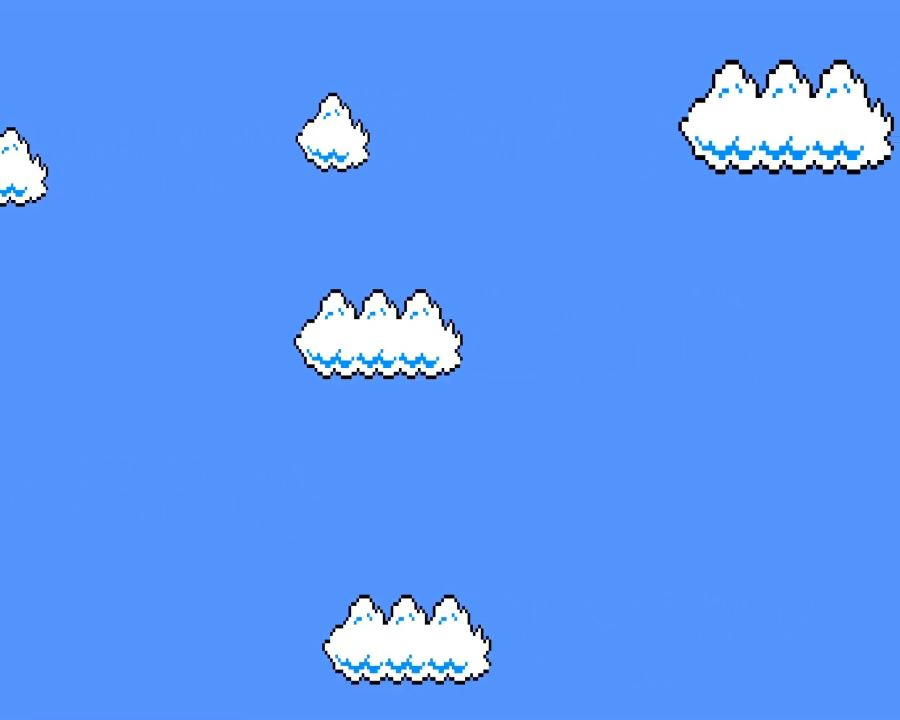
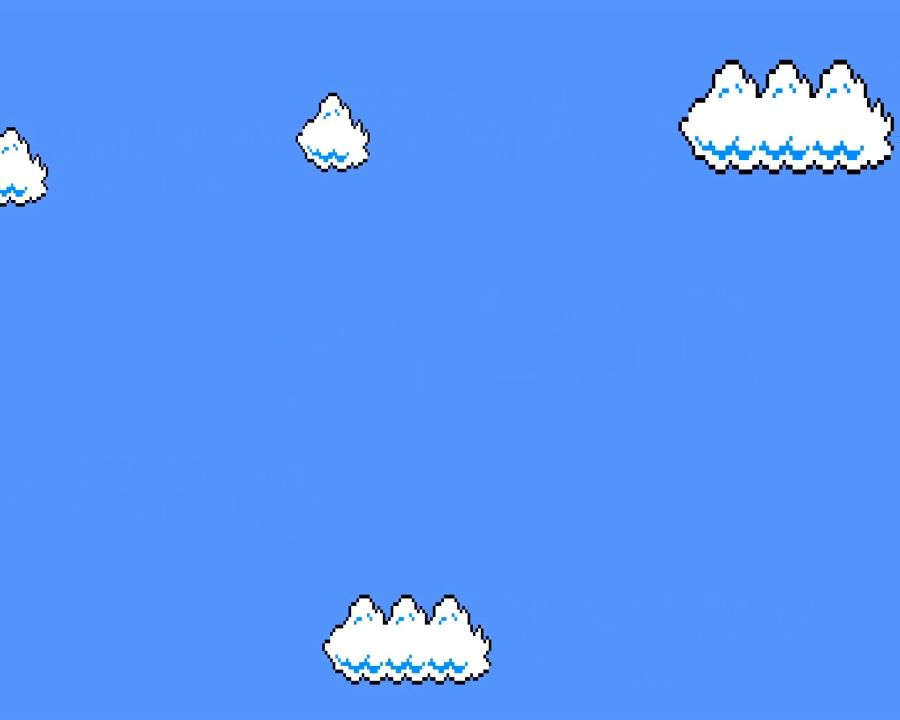
TTT cambios

Changed region(s): [[0.3111, 0.3972, 0.5289, 0.55]]

diff --git a/src/Minijuegos/TTT/TicTacToe.java b/src/Minijuegos/TTT/TicTacToe.java
@@ -6,9 +6,9 @@ import java.awt.event.ActionEvent;
 import java.awt.event.ActionListener;
 
 public class TicTacToe extends JFrame {
-    public ImageIcon logoImage, bgImage;
+    public ImageIcon logoImage, bgImage, tttBase;
     public JPanel buttonContainer;
-    public JLabel bgLabel;
+    public JLabel bgLabel, backgroundGame, gameLogo;
     boolean temp = false;
     JButton[][] TableroGrafico = new JButton[3][3];
     Juego juego = new Juego();
@@ -17,6 +17,8 @@ public class TicTacToe extends JFrame {
         this.setBounds(250,30,900,720);
         this.setPreferredSize(new Dimension(900,720));
         this.setDefaultCloseOperation(WindowConstants.EXIT_ON_CLOSE);
+        this.setUndecorated(true);
+        //this.getRootPane().setWindowDecorationStyle(JRootPane.NONE);
 
         Container container = this.getContentPane();
         container.setLayout(null);
@@ -26,39 +28,74 @@ public class TicTacToe extends JFrame {
         bgLabel.setIcon(bgImage);
         bgLabel.setBackground(Color.blue);
 
+        tttBase = new ImageIcon(getClass().getResource("/Minijuegos/TTT/tttBase.png"));
+
+        logoImage = new ImageIcon(getClass().getResource("/Minijuegos/TTT/gameLogo.png"));
+
         JLabel gameLabel = new JLabel();
-        gameLabel.setText("Game logo");
+        gameLabel.setIcon(logoImage);
 
         buttonContainer = new JPanel();
         buttonContainer.setLayout(null);
         buttonContainer.setOpaque(false);
 
+        backgroundGame = new JLabel();
+        backgroundGame.setIcon(tttBase);
+
+
         JButton btn1 = new JButton();
         btn1.setBackground(new Color(83, 148, 252));
+        btn1.setBorderPainted(false);
+        btn1.setContentAreaFilled(false);
+        btn1.setOpaque(false);
 
         JButton btn2 = new JButton();
         btn2.setBackground(new Color(83, 148, 252));
+        btn2.setBorderPainted(false);
+        btn2.setContentAreaFilled(false);
+        btn2.setOpaque(false);
 
         JButton btn3 = new JButton();
         btn3.setBackground(new Color(83, 148, 252));
+        btn3.setBorderPainted(false);
+        btn3.setContentAreaFilled(false);
+        btn3.setOpaque(false);
 
         JButton btn4 = new JButton();
         btn4.setBackground(new Color(83, 148, 252));
+        btn4.setBorderPainted(false);
+        btn4.setContentAreaFilled(false);
+        btn4.setOpaque(false);
 
         JButton btn5 = new JButton();
         btn5.setBackground(new Color(83, 148, 252));
+        btn5.setBorderPainted(false);
+        btn5.setContentAreaFilled(false);
+        btn5.setOpaque(false);
 
         JButton btn6 = new JButton();
         btn6.setBackground(new Color(83, 148, 252));
+        btn6.setBorderPainted(false);
+        btn6.setContentAreaFilled(false);
+        btn6.setOpaque(false);
 
         JButton btn7 = new JButton();
         btn7.setBackground(new Color(83, 148, 252));
+        btn7.setBorderPainted(false);
+        btn7.setContentAreaFilled(false);
+        btn7.setOpaque(false);
 
         JButton btn8 = new JButton();
         btn8.setBackground(new Color(83, 148, 252));
+        btn8.setBorderPainted(false);
+        btn8.setContentAreaFilled(false);
+        btn8.setOpaque(false);
 
         JButton btn9 = new JButton();
         btn9.setBackground(new Color(83, 148, 252));
+        btn9.setBorderPainted(false);
+        btn9.setContentAreaFilled(false);
+        btn9.setOpaque(false);
 
         JButton btn10 = new JButton();
         btn10.setText("Cerrar");
@@ -72,17 +109,18 @@ public class TicTacToe extends JFrame {
 
 
         bgLabel.setBounds(0, 0, 900,720);
-        gameLabel.setBounds(0, 0, 300,100);
+        gameLabel.setBounds(0, 0, 500,100);
         buttonContainer.setBounds(180,180, 512, 420);
-        btn1.setBounds(80, 0, 100, 100);
-        btn2.setBounds(195, 0, 100, 100);
-        btn3.setBounds(310, 0, 100, 100);
-        btn4.setBounds(80, 120, 100, 100);
-        btn5.setBounds(195, 120, 100, 100);
-        btn6.setBounds(310, 120, 100, 100);
-        btn7.setBounds(80, 240, 100, 100);
-        btn8.setBounds(195, 240, 100, 100);
-        btn9.setBounds(310, 240, 100, 100);
+        backgroundGame.setBounds(210, 150,512, 420);
+        btn1.setBounds(10, 8, 100, 100);
+        btn2.setBounds(165, 8, 100, 100);
+        btn3.setBounds(320, 8, 100, 100);
+        btn4.setBounds(10, 138, 100, 100);
+        btn5.setBounds(165, 138, 100, 100);
+        btn6.setBounds(320, 138, 100, 100);
+        btn7.setBounds(10, 260, 100, 100);
+        btn8.setBounds(165, 260, 100, 100);
+        btn9.setBounds(320, 260, 100, 100);
         btn10.setBounds(750, 600, 100, 30);
 
 
@@ -95,12 +133,13 @@ public class TicTacToe extends JFrame {
         buttonContainer.add(btn3);
         buttonContainer.add(btn2);
         buttonContainer.add(btn1);
+        container.add(backgroundGame);
         container.add(buttonContainer);
         container.add(btn10);
         container.add(gameLabel);
         container.add(bgLabel);
-
         GenerarTableroGrafico();
+        JOptionPane.showMessageDialog(null, "Tic tac toe, el primer jugador va a tener asociado una ´X´ y el segundo jugador va a tener asociado un ´O´ \n Una vez finalizado el juego, darle al botón de cerrar!  ");
         this.setVisible(true);
 
 
@@ -117,6 +156,10 @@ public class TicTacToe extends JFrame {
                 SincronizarTablero();
             });
             c++;
+            if (c >= 3){
+                c = 0;
+                f++;
+            }
         }
 
     }

diff --git a/src/Minijuegos/TTT/Juego.java b/src/Minijuegos/TTT/Juego.java
@@ -89,7 +89,6 @@ public class Juego {
                     break;
             }
         }
-        System.out.println("hola");
     }
     int BuscarFin() {
         int col = BuscarFinColumnas();
